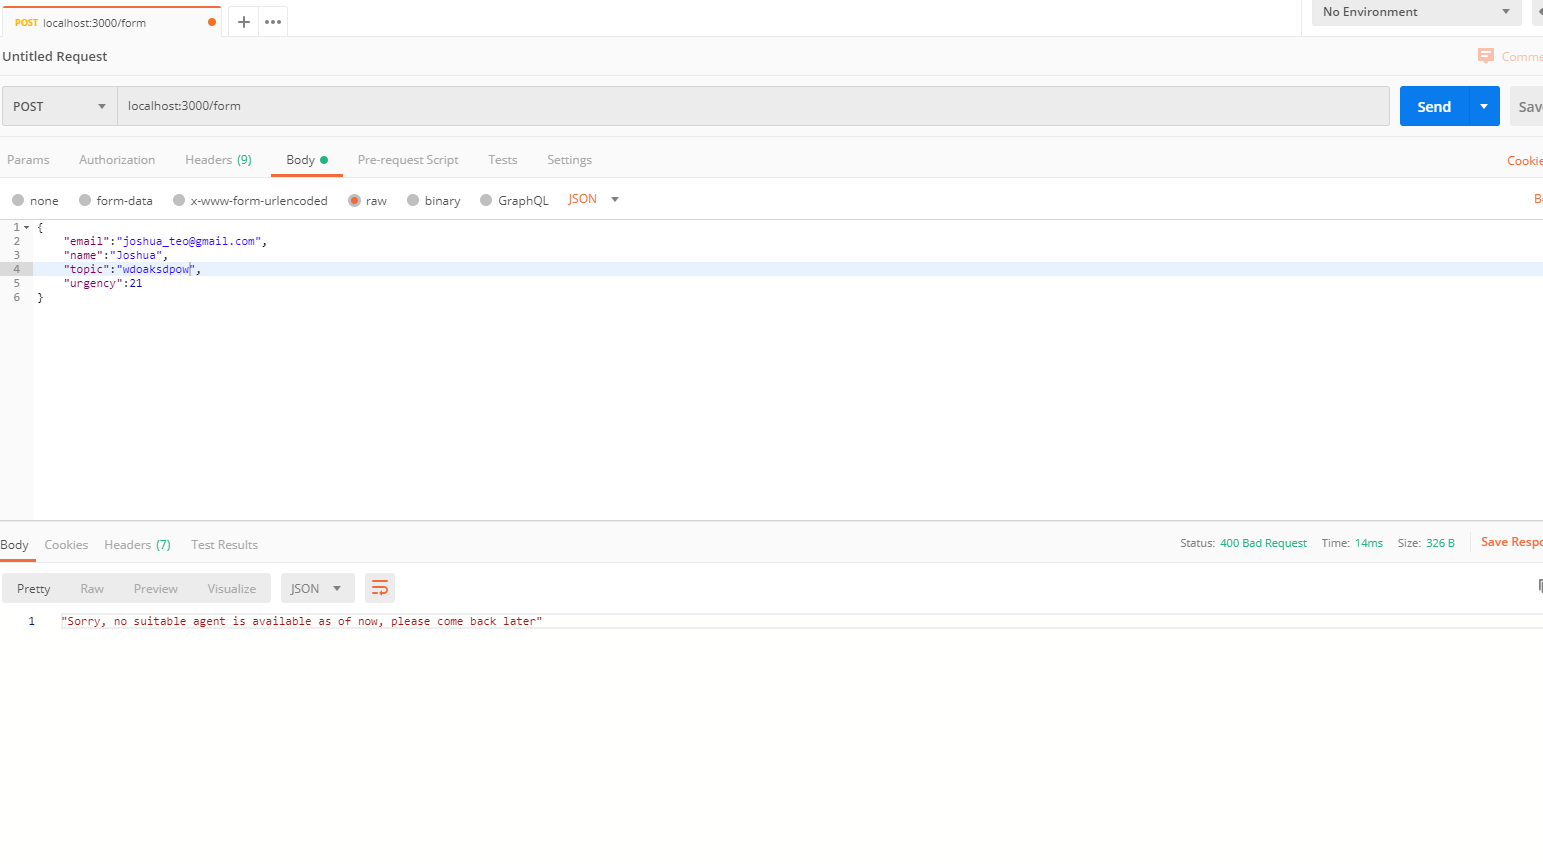
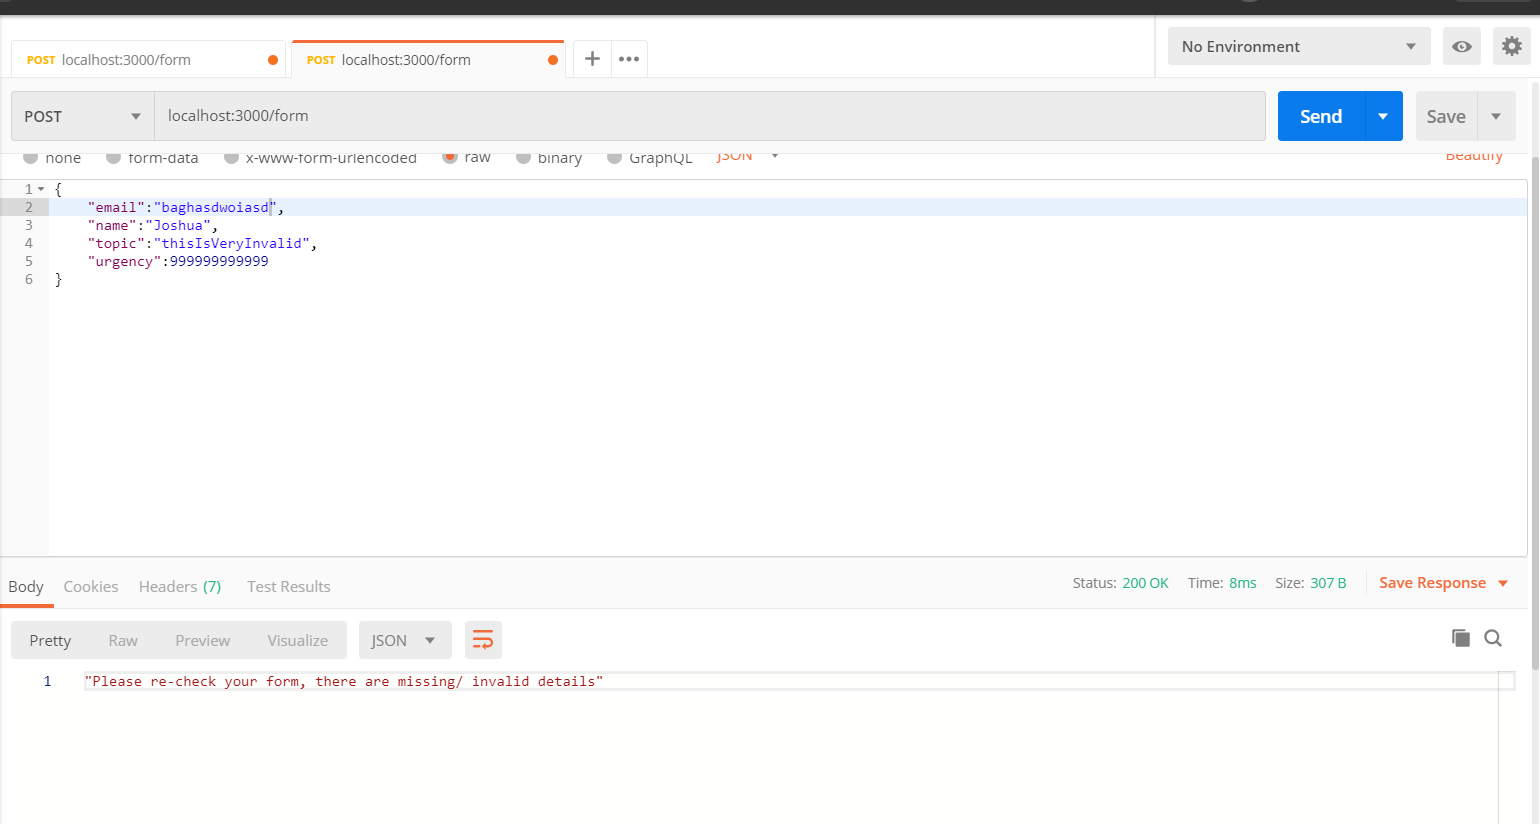
Fixed a small error in routing function

diff --git a/myBackend.js b/myBackend.js
@@ -60,30 +60,29 @@ const database = {
     ]
 }
 
-const validTopics = set('software','hardware','others');
+const validTopics = new Set('software','hardware','others');
 
 // The most important endpoint for this demo, the form endpoint, which includes the routing functionality
 app.post('/form',(req,res)=>{
     let msg = '';
+    let stop = NaN;
     const {email,name,topic,urgency} = req.body; //Destructuring
+    if(!validTopics.has(topic)){
+        msg = "Please re-check your form, there are missing/ invalid details";
+    }
     database.agents.forEach((agent)=>{
         if(agent.expertise==topic){
-            console.log(name,topic);
-            if(agent.available){
+            //console.log(name,topic);
+            if(agent.available===true){
+                console.log(agent.name);
                 msg = "We are connecting you with this agent: "+agent.name.toString();
-                break;
-            } else{
+                res.json(msg);
+                stop = true;
+            } else if (stop!==true){
                 msg = "We are sorry, but no suitable agents are available right now, please come back later";
             }
         }
-        else{
-            if(msg!==''){
-                continue;
-            }
-            if(!validTopics.has(topic)){
-                msg = "Please re-check your form, there are missing/ invalid details";
-            }
-        }
-        res.json(msg);
-    })    
+        
+    })
+    res.json(msg);    
 })
